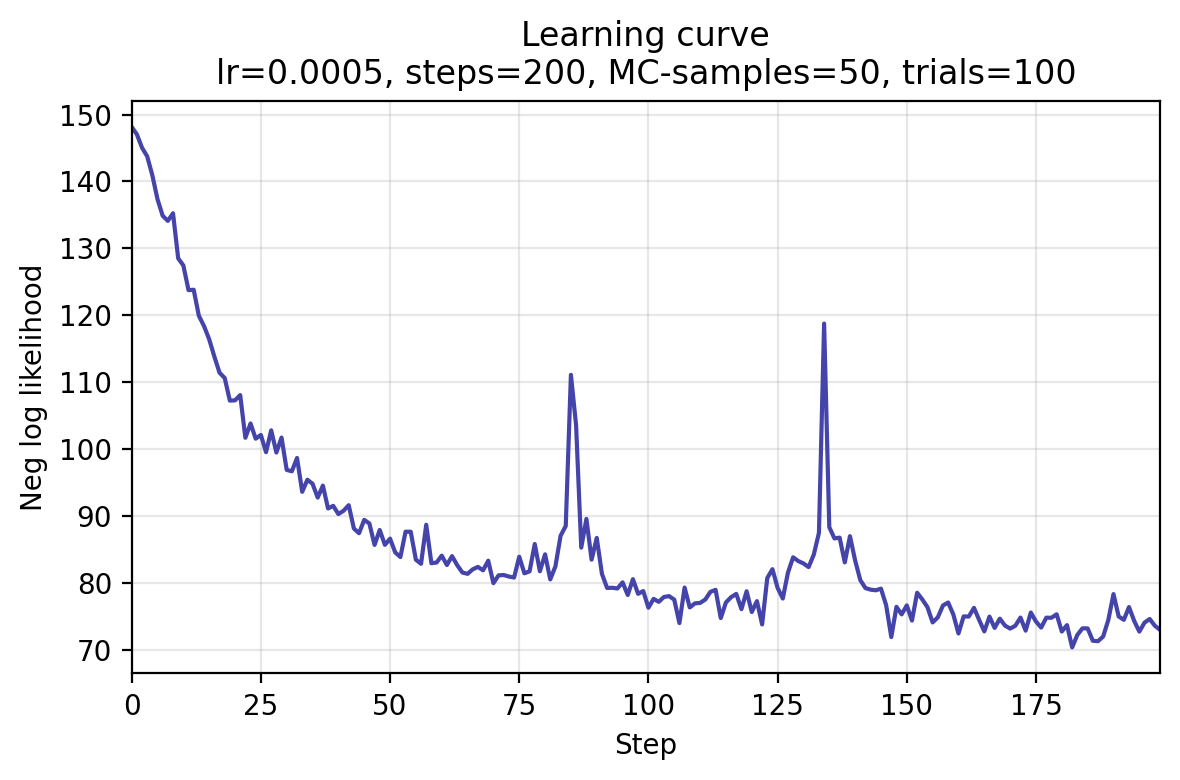
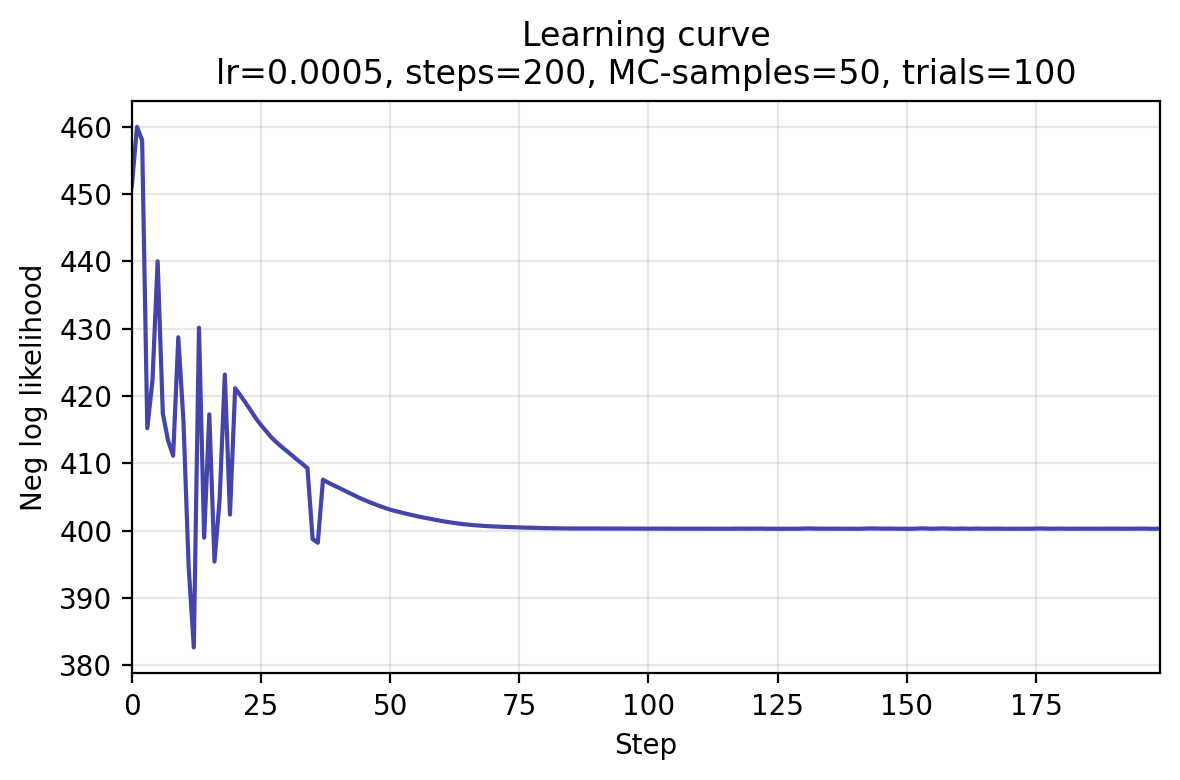
update examples

diff --git a/docs/examples/wppm/full_wppm_fit_example.py b/docs/examples/wppm/full_wppm_fit_example.py
@@ -115,7 +115,7 @@ def _ellipse_segments_from_covs(
     eigvals = jnp.linalg.eigvalsh(covs)
     valid = jnp.all(eigvals > 0, axis=-1)
 
-    # Cholesky is faster than eigendecomposition for SPD matrices.
+    # Cholesky is faster than eigen decomposition for SPD matrices.
     # we only use it for plotting ellipses (shape/orientation), not inference.
     def _cov_to_points(cov: jnp.ndarray, center: jnp.ndarray) -> jnp.ndarray:
         L = jnp.linalg.cholesky(cov)
@@ -140,8 +140,8 @@ def _ellipse_segments_from_covs(
 
 
 NUM_GRID_PTS = 10  # Number of reference points over stimulus space.
-MC_SAMPLES = 5  # Number of Monte Carlo samples per trial in the likelihood. # 500
-NUM_TRIALS_Per_Ref = 40  # Total number of trials in the simulated dataset.
+MC_SAMPLES = 500  # Number of Monte Carlo samples per trial in the likelihood. # 500
+NUM_TRIALS_Per_Ref = 4000  # Total number of trials in the simulated dataset.
 # 4000 trials does not work on cpu
 
 
@@ -258,9 +258,8 @@ ys, p_correct = task.simulate(truth_params, refs, comparisons, truth_model, key=
 #
 # Notes:
 # - This is equivalent to storing X with shape (N, s, d) and y with shape (N, d)
-#   For OddityTask, X[:,0,:]=refs and X[:,1,:]=comparisons.
-# - It is assumed that N is number of trials, s number of distinct stimuli, and
-#   d is stimulus dimensions.
+#   Where N is trials, s is distinct stimuli, and d is stimulus dimensions.
+# - For OddityTask, X[:,0,:]=refs and X[:,1,:]=comparisons.
 # - Note that even though oddity is a 3-item task, we only store (ref, comparison)
 #   because the oddity trial is assumed to be (ref, ref, comparison)
 #

diff --git a/docs/examples/wppm/quick_start.py b/docs/examples/wppm/quick_start.py
@@ -166,9 +166,8 @@ ys, p_correct = task.simulate(truth_params, refs, comparisons, truth_model, key=
 # --8<-- [end:simulate_data]
 
 # --8<-- [start:data]
-data = TrialData(
-    refs=refs, comparisons=comparisons, responses=ys
-)  # contains 3 JAX arrays
+inputs = jnp.stack([refs, comparisons], axis=1)
+data = TrialData(inputs=inputs, responses=ys)  # contains 2 JAX arrays
 # --8<-- [end:data]
 
 

diff --git a/src/psyphy/model/likelihood.py b/src/psyphy/model/likelihood.py
@@ -159,7 +159,6 @@ class TaskLikelihood(ABC):
                 params, ref, comparison, model, key=k
             )
         )(refs, comparisons, trial_keys)
-        print(probs)
 
         log_likelihoods = jnp.where(
             responses == 1,
